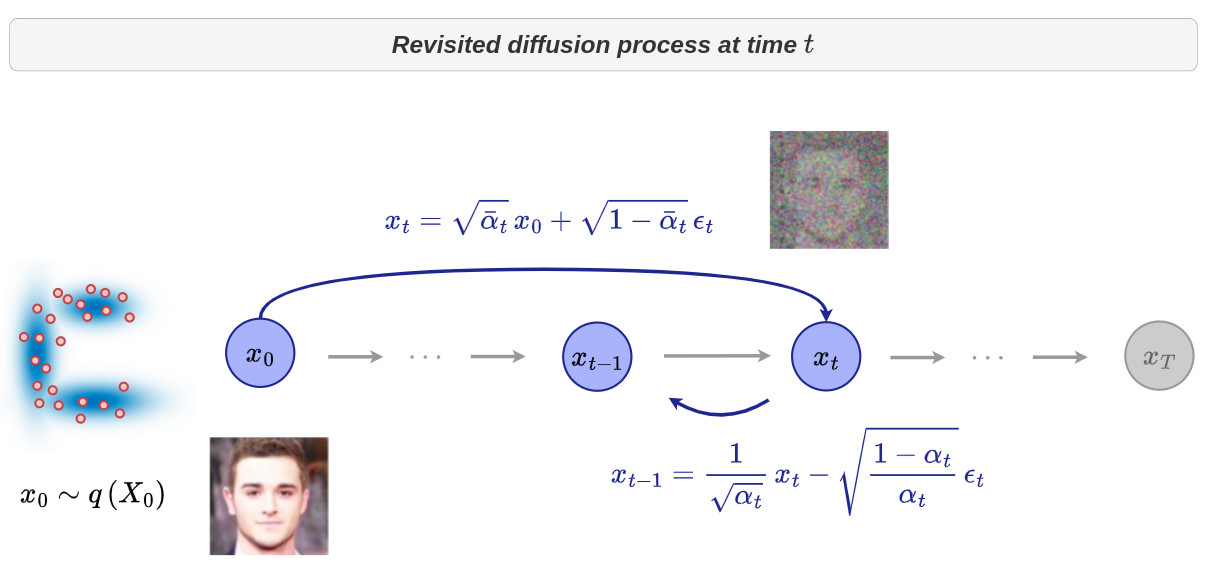
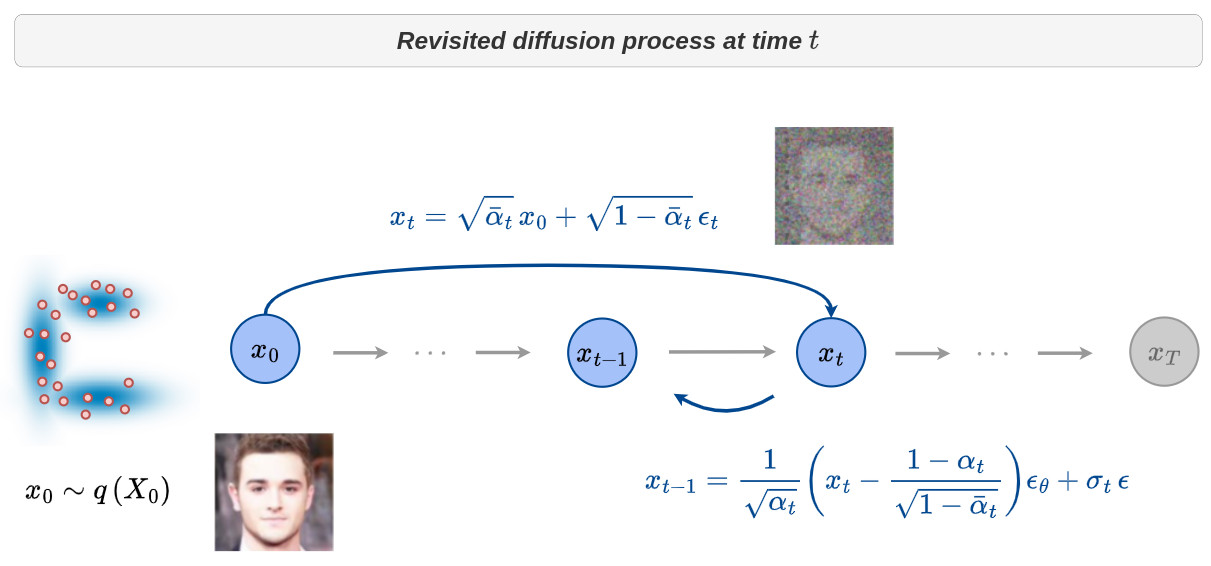
finalize deep learning section

diff --git a/collections/_tutorials/2023-11-30-tutorial-ddpm.md b/collections/_tutorials/2023-11-30-tutorial-ddpm.md
@@ -29,7 +29,6 @@ categories: diffusion, model
   - [General idea](#general-idea)
   - [Loss function](#loss-function) 
 - [**To go further**](#to-go-further)
-  - [The first DDPM algorithm](#first-ddpm-algorithm) 
   - [How to improve the log-likelihood ?](#how-to-improve-the-log-likelihood) 
   - [Improve sampling speed](#improve-sampling-speed)
 
@@ -101,21 +100,21 @@ $$q(x_{0}) = \int q(x_{0:T}) \,dx_{1:T}$$
 
 ### Markov chain properties
 
-In a Markov chain, the probability of each event depends only on the state attained in the previous event. Thus :
+In a Markov chain, the probability of each event depends only on the state attained in the previous event. The following expressions can thus be written:
+
+[Conditional probability theorem](#conditional-probability-theorem)
 
 $$q(x_T \mid x_{0:T-1}) = q(x_T \mid x_{T-1})$$
 
-We can rewrite the [conditional probability theorem](#conditional-probability-theorem) in this context : 
-
 $$q(x_{1:T} \mid x_0) = \prod_{t=1}^{T} q(x_t \mid x_{t-1})$$ 
 
-Likewise, for the reverse process :
+[Reverse process](#reverse-process)
 
 $$p_{\theta}(x_{0:T}) = p_{\theta}(x_{T}) \prod_{t=1}^{T} p_{\theta}(x_{t-1} \mid x_{t})$$
 
-We can also rewrite the [Bayes theorem](#bayes-theorem) in the markov chain context :
+[Bayes theorem](#bayes-theorem)
 
-$$ q(x_{t} \mid x_{t-1}) = q(x_{t} \mid x_{t-1}, x_0) = \frac{q(x_{t-1} \mid x_{t}, x_0) \, q(x_{t} \mid x_0)}{q(x_{t-1}) \mid x_0} $$
+$$ q(x_{t} \mid x_{t-1}) = q(x_{t} \mid x_{t-1}, x_0) = \frac{q(x_{t-1} \mid x_{t}, x_0) \, q(x_{t} \mid x_0)}{q(x_{t-1} \mid x_0)}$$
 
 &nbsp;
 
@@ -251,7 +250,7 @@ $$\quad$$ By defining <span style="color:#00478F">$$\bar{\alpha}_t = \prod_{k=1}
 
 <div style="text-align:center">
 <span style="color:#00478F">
-$$x_t = \sqrt{\bar{\alpha}_t} \, x_0 + \sqrt{1 - \bar{\alpha}_t} \, \bar{\epsilon}_0$$
+$$x_t = \sqrt{\bar{\alpha}_t} \, x_0 + \sqrt{1 - \bar{\alpha}_t} \, \epsilon_t$$
 </span>
 </div>
 
@@ -300,7 +299,7 @@ $$\alpha _t = \frac{f(t)}{f(0)}, \quad f(t) = cos\left(\frac{\frac{t}{T} + s}{1+
 &nbsp;
 
 
-- If we are able to reverse the diffusion process from $$q(x_{t-1} \mid x_t)$$, we will be able to generate a sample from a Gaussian noise input $$x_T \sim \mathcal{N}(0,\mathbf{I})$$ !
+- If we are able to reverse the diffusion process from $$q(x_{t-1} \mid x_t)$$, we will be able to generate a sample $$x_0$$ from a Gaussian noise input $$x_T \sim \mathcal{N}(0,\mathbf{I})$$ !
 
 - Unfortunately, using the [Bayes theorem](#bayes-theorem) and keeping in mind that $$q(x_t)$$ is an unknown, one can easy see that $$q(x_{t-1} \mid x_t)$$ is intractable.
 
@@ -308,7 +307,7 @@ $$q(x_{t-1} \mid x_t) = \frac{q(x_{t} \mid x_{t-1}) \, q(x_{t-1})}{q(x_{t})}$$
 
 &nbsp;
 
-> It is noteworthy that the reverse conditional probability is tractable when conditioned on $$x_0$$. Indeed, thanks to Bayes theorem $$\, q(x_{t-1} \mid x_t, x_0)$$ = $$\frac{q(x_t \mid x_{t-1}, x_0)q(x_{t-1} \mid x_0)}{q(x_t \mid x_0)}$$, where all distributions are known from the forward process.
+> It is noteworthy that the reverse conditional probability is tractable when conditioned on $$x_0$$. Indeed, thanks to Bayes theorem $$\, q(x_{t-1} \mid x_t, x_0)$$ = $$\frac{q(x_t \mid x_{t-1}, x_0)q(x_{t-1} \mid x_0)}{q(x_t \mid x_0)}$$=$$\frac{q(x_t \mid x_{t-1})q(x_{t-1} \mid x_0)}{q(x_t \mid x_0)}$$, where all distributions are known from the forward process.
 
 &nbsp;
 
@@ -325,7 +324,7 @@ $$\quad$$ where
 <div style="text-align:center">
 <span style="color:#00478F">
 $$ \begin{align} 
-& \tilde{\mu}_t(x_t,x_0) = \frac{1}{\sqrt{\bar \alpha_t}} (x_t - \frac{1-\alpha _t}{\sqrt{1- \bar \alpha _t}} \epsilon _t)\\
+& \tilde{\mu}_t(x_t,x_0) = \frac{1}{\sqrt{\alpha_t}} (x_t - \frac{1-\alpha _t}{\sqrt{1- \bar \alpha _t}} \epsilon _t)\\
 & \tilde{\beta}_t = \frac{1 - \bar{\alpha}_{t-1}}{1 - \bar{\alpha}_t} \cdot \beta_t \\
 \end{align}$$
 </span>
@@ -353,7 +352,7 @@ $$p_{\theta}(x_{0:T}) = p_{\theta}(x_T) \, \prod_{t=1}^{T} p_{\theta}(x_{t-1} \m
 
 &nbsp;
 
-> $$\mu _{\theta}(x_t,t)$$ and $$\, \Sigma_{\theta}(x_t,t)$$ depend not only on $$x_t$$ but also on $$t$$. Those parameters that need to be estimated are thus time-dependent !
+> $$\mu _{\theta}(x_t,t)$$ and $$\, \Sigma_{\theta}(x_t,t)$$ depend not only on $$x_t$$ but also on $$\,t$$. Those parameters that need to be estimated are thus time-dependent !
 
 <!-- ![](/collections/images/ddpm/reverseProcess.jpg) -->
 
@@ -494,7 +493,7 @@ $$
 
 **$$\mathcal{L}_t:$$ Stepwise denoising terms**
 
-- Recall that $$p_{\theta}(x_{t-1} \vert x_t) = \mathcal{N}(\mu_{\theta}(x_t,t), \Sigma_{\theta}(x_t,t))$$ and $$q(x_{t-1} \vert x_t, x_0) = \mathcal{N}(\tilde{\mu}_t(x_t,x_0), \tilde{\beta}_t \cdot \textbf{I})$$, <spam style="color:#00478F">the idea is first to focus on the mean terms</spam> and train a neural network $$\mu_{\theta}$$ to predict $$\tilde{\mu}_t = \frac{1}{\sqrt{\bar{\alpha}_t}} (x_t - \frac{1-\alpha_t}{\sqrt{1- \bar{\alpha}_t}} \epsilon _t)$$
+- Recall that $$p_{\theta}(x_{t-1} \vert x_t) = \mathcal{N}(\mu_{\theta}(x_t,t), \Sigma_{\theta}(x_t,t))$$ and $$q(x_{t-1} \vert x_t, x_0) = \mathcal{N}(\tilde{\mu}_t(x_t,x_0), \tilde{\beta}_t \cdot \textbf{I})$$, <spam style="color:#00478F">the idea is first to focus on the mean terms</spam> and train a neural network $$\mu_{\theta}$$ to predict $$\tilde{\mu}_t = \frac{1}{\sqrt{\alpha_t}} (x_t - \frac{1-\alpha_t}{\sqrt{1- \bar{\alpha}_t}} \epsilon _t)$$
 
 &nbsp;
 
@@ -504,7 +503,7 @@ $$
 
 <div style="text-align:center">
 <span style="color:#00478F">
-$$\mu_{\theta}(x_t,t) = \frac{1}{\sqrt{\bar{\alpha}_t}} \left(x_t - \frac{1-\alpha_t}{\sqrt{1- \bar{\alpha}_t}}\right) \epsilon_{\theta}(x_t,t)$$
+$$\mu_{\theta}(x_t,t) = \frac{1}{\sqrt{\alpha_t}} \left(x_t - \frac{1-\alpha_t}{\sqrt{1- \bar{\alpha}_t}}\right) \epsilon_{\theta}(x_t,t)$$
 </span>
 </div>
 
@@ -515,16 +514,36 @@ $$\mu_{\theta}(x_t,t) = \frac{1}{\sqrt{\bar{\alpha}_t}} \left(x_t - \frac{1-\alp
 
 $$ \begin{align}
 \mathcal{L}_t &= \mathbb{E}_{x_0 \sim q, \epsilon \sim \mathcal{N}} \left[ \frac{1}{ 2 \|\Sigma _{\theta} (x_t , t) \|^2_2} \, \| \tilde \mu _t (x_t , x_0) - \mu _{\theta}(x_t , t) \|^2_2 \right]\\
-&= \mathbb{E}_{x_0 \sim q, \epsilon \sim \mathcal{N}} \left[ \frac{1}{ 2 \|\Sigma _{\theta} (x_t , t) \|^2_2} \, \| \frac{1}{\sqrt{\bar \alpha_t}} \left(x_t - \frac{1-\alpha _t}{\sqrt{1- \bar \alpha _t}} \epsilon_t \right) -  \frac{1}{\sqrt{\alpha_t}} \left(x_t - \frac{1-\alpha _t}{\sqrt{1- \bar \alpha _t}} \epsilon_{\theta}(x_t , t) \right) \|^2_2 \right]\\
+&= \mathbb{E}_{x_0 \sim q, \epsilon \sim \mathcal{N}} \left[ \frac{1}{ 2 \|\Sigma _{\theta} (x_t , t) \|^2_2} \, \| \frac{1}{\sqrt{\alpha_t}} \left(x_t - \frac{1-\alpha _t}{\sqrt{1- \bar \alpha _t}} \epsilon_t \right) -  \frac{1}{\sqrt{\alpha_t}} \left(x_t - \frac{1-\alpha _t}{\sqrt{1- \bar \alpha _t}} \epsilon_{\theta}(x_t , t) \right) \|^2_2 \right]\\
 &= \mathbb{E}_{x_0 \sim q, \epsilon \sim \mathcal{N}} \left[ \frac{(1-\alpha _t)^2}{ 2 \alpha _t (1- \bar \alpha_t)\|\Sigma _{\theta} (x_t , t) \|^2_2} \, \| \epsilon_t  - \epsilon _{\theta}(x_t , t)\|^2_2 \right]\\
-&= \mathbb{E}_{x_0 \sim q, \epsilon \sim \mathcal{N}} \left[ \frac{(1-\alpha _t)^2}{ 2 \alpha _t (1- \bar \alpha_t)\|\Sigma _{\theta} (x_t , t) \|^2_2} \, \| \epsilon_t  - \epsilon_{\theta}(\sqrt{\bar \alpha _t} x_0 + \sqrt{1 - \bar \alpha _t}\epsilon_t, t)\|^2_2 \right]
 \end{align}$$
+
+<!--&= \mathbb{E}_{x_0 \sim q, \epsilon \sim \mathcal{N}} \left[ \frac{(1-\alpha _t)^2}{ 2 \alpha _t (1- \bar \alpha_t)\|\Sigma _{\theta} (x_t , t) \|^2_2} \, \| \epsilon_t  - \epsilon_{\theta}(\sqrt{\bar \alpha _t} x_0 + \sqrt{1 - \bar \alpha _t}\epsilon_t, t)\|^2_2 \right]-->
 
 - Finally, the stepwise denoising terms are expressed as:
 
 <div style="text-align:center">
 <span style="color:#00478F">
-$$\mathcal{L}_t = \mathbb{E}_{x_0 \sim q, \epsilon \sim \mathcal{N}} \left[ \frac{(1-\alpha _t)^2}{ 2 \alpha _t (1- \bar \alpha_t)\|\Sigma _{\theta} (x_t , t) \|^2_2} \, \| \epsilon_t  - \epsilon_{\theta}(\sqrt{\bar \alpha _t} x_0 + \sqrt{1 - \bar \alpha _t}\epsilon_t, t)\|^2_2 \right]$$
+$$\mathcal{L}_t = \mathbb{E}_{x_0 \sim q, \epsilon \sim \mathcal{N}} \left[ \frac{(1-\alpha _t)^2}{ 2 \alpha _t (1- \bar \alpha_t)\|\Sigma _{\theta} (x_t , t) \|^2_2} \, \| \epsilon_t  - \epsilon_{\theta}(x_t, t)\|^2_2 \right]$$
+</span>
+</div>
+
+&nbsp;
+
+- The authors from a [seminal paper](https://arxiv.org/abs/2006.11239) of the DDPM method proposed to fix $$\{\beta _t\}^T_{t=1}$$ as constants for simplicity's sake.
+
+- Instead of making $$\beta_t$$ learnable, they set $$\Sigma _{\theta} (x_t ,t) = \sigma_t^2 \, \mathbf{I}$$, where $$\sigma_t$$ is not learned but set to $$\beta_t$$ or $$\bar{\beta}_t = \frac{1 - \bar{\alpha}_{t-1}}{1-\bar{\alpha}_t}\cdot \beta_t$$.
+
+- The stepwise denoising loss function becomes:
+
+$$ \mathcal{L}_t = \mathbb{E}_{x_0 \sim q, \epsilon \sim \mathcal{N}} \left[ \frac{(1-\alpha_t)^2}{ 2 \alpha_t (1- \bar \alpha_t)\sigma_{t}^2} \, \| \epsilon_t - \epsilon _{\theta}(x_t, t)\|^2 \right]$$
+
+
+- They also found that simplifying the loss function by ignoring the weighting term improved the model training, making it less noisy:
+
+<div style="text-align:center">
+<span style="color:#00478F">
+$$ \mathcal{L}_t^{simple} = \mathbb{E}_{x_0 \sim q, \epsilon \sim \mathcal{N}, t \sim [1,T]} \left[ \| \epsilon_t - \epsilon _{\theta}(x_t,t)\|^2 \right]$$
 </span>
 </div>
 
@@ -589,27 +608,31 @@ $$\quad$$ where <span style="color:#00478F">$$\bar{\alpha}_t = \prod_{k=1}^{t}{\
 
 &nbsp;
 
-> It is thus possible to generate a random image $$x_t$$ of the input image $$x_0$$ at any time $$t$$ of the diffusion process with a known noise $$\epsilon_t \in \mathcal{N}(0,\mathbf{I})$$ added to the previous image $$x_{t-1}$$. 
+> It is thus possible to generate a random image $$\,x_t$$ of the input image $$\,x_0$$ at any time $$\,t$$ of the diffusion process with a known noise $$\,\epsilon_t \in \mathcal{N}(0,\mathbf{I})$$. 
 
 &nbsp;
 
-- It is important to remember that $$\epsilon_{t}$$ and $$\epsilon_{t-1}$$ come from the same Gaussian process since $$\epsilon_{t} \sim \mathcal{N}(0,\mathbf{I})$$ whatever time $$t$$.
+- In diffusion model, the deep learning architecture aims to estimate $$\epsilon_t$$ from $$x_t$$ at time $$t$$. The estimated noise is denoted $$\epsilon_{\theta}(x_t,t)$$.
 
-- The previous noisy image $$x_{t-1}$$ can thus be deduced from the $$x_t$$ and the added noise $$\epsilon_{t}$$ using the following relation
+- Recall that $$p_{\theta}(x_{t-1} \vert x_t) = \mathcal{N}(\mu_{\theta}(x_t,t), \Sigma_{\theta}(x_t,t))$$ with $$\mu_{\theta}(x_t,t) = \frac{1}{\sqrt{\alpha_t}} \left(x_t - \frac{1-\alpha_t}{\sqrt{1- \bar{\alpha}_t}}\right) \epsilon_{\theta}(x_t,t)$$.
 
-$$x_t = \sqrt{\alpha_t} \, x_{t-1} + \sqrt{1-\alpha_t} \, \epsilon_{t-1}$$
-
-$$x_t = \sqrt{\alpha_t} \, x_{t-1} + \sqrt{1-\alpha_t} \, \epsilon_{t}$$
-
-$$x_{t-1} = \frac{x_{t}-\sqrt{1-\alpha_t} \, \epsilon_{t}}{\sqrt{\alpha_t}}$$
+- Making the assumption that $$\Sigma_{\theta}(x_t,t)$$ is equal to $$\sigma^2_t  \, \mathbf{I}$$ (see previous section), the above expression can be rewritten as:
 
 <div style="text-align:center">
 <span style="color:#00478F">
-$$x_{t-1}=\frac{1}{\sqrt{\alpha_t}}\,x_{t} - \sqrt{\frac{1-\alpha_t}{\alpha_t}}\,\epsilon_{t}$$
+$$x_{t-1} = \frac{1}{\sqrt{\alpha_t}} \left(x_t - \frac{1-\alpha_t}{\sqrt{1- \bar{\alpha}_t}}\right) \epsilon_{\theta} + \sigma_t \, \epsilon$$
 </span>
 </div>
 
-> It is thus possible for any time $$t$$ to generate the corresponding noisy image $$\,x_t$$ from $$\,x_0$$ as well as the additional noise $$\,\epsilon_t$$ and learn to estimate it from $$\,x_t$$. The estimated noise $$\,\tilde{\epsilon}_t$$ can then be used to retrieve $$\,x_{t-1}$$ from $$\,x_t$$ as illustrated in the above figure.
+$$\quad$$ where 
+
+$$ \epsilon \sim \mathcal{N}(0,\mathbf{I})$$
+
+&nbsp;
+
+
+> It is thus possible for any time $$t$$ to generate the corresponding noisy image $$\,x_t$$ from $$\,x_0$$ as well as the additional noise $$\,\epsilon_t$$ and learn to estimate it from $$\,x_t$$ and $$\,t$$. The estimated noise $$\,\epsilon_{\theta}(x_t,t)$$ can then be used to retrieve $$\,x_{t-1}$$ from $$\,x_t$$ as illustrated in the 
+figure below.
 
 &nbsp;
 
@@ -629,51 +652,23 @@ $$x_{t-1}=\frac{1}{\sqrt{\alpha_t}}\,x_{t} - \sqrt{\frac{1-\alpha_t}{\alpha_t}}\
 
 &nbsp;
 
-## **To go further**
-
-### The first DDPM algorithm
-
-- The authors from a [seminal paper](https://arxiv.org/abs/2006.11239) of the DDPM method proposed to fix $$\{\beta _t\}^T_{t=1}$$ as constants for simplicity's sake.
-
-- Instead of making $$\beta_t$$ learnable, they set $$\Sigma _{\theta} (x_t ,t) = \sigma_t^2 I$$, where $$\sigma_t$$ is not learned but set to $$\beta_t$$ or $$\bar{\beta}_t = \frac{1 - \bar{\alpha}_{t-1}}{1-\bar{\alpha}_t}\cdot \beta_t$$.
-
-- The stepwise denoising loss function becomes:
-
-$$ \mathcal{L}_t = \mathbb{E}_{x_0 \sim q, \epsilon \sim \mathcal{N}} \left[ \frac{(1-\alpha_t)^2}{ 2 \alpha_t (1- \bar \alpha_t)\sigma_{t}^2} \, \| \epsilon_t - \epsilon _{\theta}(\sqrt{\bar \alpha _t} x_0 + \sqrt{1 - \bar \alpha _t}\epsilon, t)\|^2 \right]$$
-
-
-- They also found that simplifying the loss function by ignoring the weighting term improved the model training, making it less noisy:
-
-<div style="text-align:center">
-<span style="color:#00478F">
-$$ \mathcal{L}_t^{simple} = \mathbb{E}_{x_0 \sim q, \epsilon \sim \mathcal{N}, t \sim [1,T]} \left[ \| \epsilon_t - \epsilon _{\theta} \left(\sqrt{\bar \alpha_t} x_0 + \sqrt{1 - \bar \alpha_t }\epsilon_t, t \right)\|^2 \right]$$
-</span>
-</div>
-
-<!--
-$$\mathcal{L}_{simple} = \mathcal{L}_t^{simple} + C$$
-where C is a constant that does not depends on $$\theta$$.
--->
-
 - During the reverse process, it is needed to compute the set of samples $$x_T, x_{T-1}, \cdots, x_{0}$$ in a recursive manner. 
 
 - Starting from $$x_T \sim \mathcal{N}(0,\mathbf{I})$$ and keeping in mind that $$p_{\theta}(x_{t-1} \mid x_t) = \mathcal{N}\left( \mu_{\theta}(x_t,t), \Sigma_{\theta}(x_t,t) \right)$$ this is done through the following relation:
 
 <div style="text-align:center">
 <span style="color:#00478F">
-$$x_{t-1} = \frac{1}{\sqrt{\bar \alpha_t}} \left(x_t - \frac{1-\alpha _t}{1- \bar \alpha _t} \epsilon _{\theta} (x_t ,t) \right) + \sigma _t z$$
+$$x_{t-1} = \frac{1}{\sqrt{\alpha_t}} \left(x_t - \frac{1-\alpha_t}{\sqrt{1- \bar{\alpha}_t}}\right) \epsilon_{\theta} + \sigma_t \, \epsilon$$
 </span>
 </div>
-
-$$\quad$$ where 
-
-$$ z \sim \mathcal{N}(0,\mathbf{I})$$
 
 &nbsp;
 
 ![](/collections/images/ddpm/algorithms.jpg)
 
 &nbsp;
+
+## **To go further**
 
 ### Parameterization of reverse process variance
 
